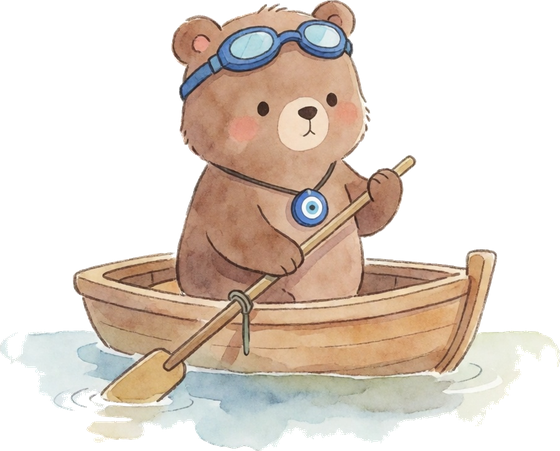
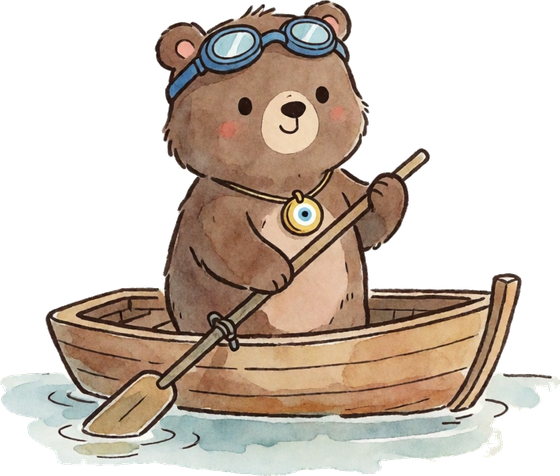
Switch the cast to ink and watercolour
All sixteen illustrations are regenerated in the ink-and-watercolour style: a
dark brown contour line around every shape with the washes filling inside it,
instead of the washes alone. Two reasons it wins at the size the page actually
uses. The characters render between 114 and 153px wide, and the contour holds
the figure together where a pure wash dissolves. And the line gives the
background strip a definite edge, so the flood fill no longer hesitates on the
pale characters — the cream rabbit, the white stork and the speckled hen come
out whole, and the ground-shadow wash the watercolour set left behind is
largely gone.

The --k multipliers are recomputed over the fourteen edge characters again,
since the ink line changes the inked area. The nav portrait is cropped to the
same 0.72 aspect as before and still lands at 35x48.

Verified at 1920: all fourteen load, no text collision, no horizontal overflow,
nav 35x48, CTA rabbit 230x229. The watercolour set stays in history at cb5a195.

Claude-Session: https://claude.ai/code/session_01MGLSLrmtckx3JqW12WLXoG

diff --git a/eski-tasarim.html b/eski-tasarim.html
@@ -11,14 +11,14 @@
     <link href="https://fonts.googleapis.com/css2?family=Nunito:wght@400;600;700;800;900&family=Baloo+2:wght@400;500;600;700;800&display=swap" rel="stylesheet">
     <link href="https://fonts.cdnfonts.com/css/scrambled-tofu" rel="stylesheet">
     <link rel="stylesheet" href="https://cdnjs.cloudflare.com/ajax/libs/font-awesome/6.5.1/css/all.min.css">
-    <link rel="stylesheet" href="eski-tasarim.css?v=83">
+    <link rel="stylesheet" href="eski-tasarim.css?v=84">
 </head>
 <body>
 
 <!-- NAV -->
 <nav>
     <a href="#" class="nav-logo">
-        <img src="tavsan-nav.png?v=2" alt="" class="nav-bear" aria-hidden="true" width="35" height="48" style="height:48px;width:auto;">
+        <img src="tavsan-nav.png?v=3" alt="" class="nav-bear" aria-hidden="true" width="35" height="48" style="height:48px;width:auto;">
         <span>Arkadaşım Kelimeler</span>
     </a>
     <ul class="nav-links">
@@ -295,8 +295,8 @@
 </section>
 
 <section id="ozellikler">
-    <img src="kahraman-ayi-kova.png?v=2" alt="" aria-hidden="true" class="kahraman kahraman-sag kahraman-y" style="--ky: 13" loading="lazy">
-    <img src="kahraman-hindi.png?v=2" data-giris="zipla" alt="" aria-hidden="true" class="kahraman kahraman-sol" loading="lazy">
+    <img src="kahraman-ayi-kova.png?v=3" alt="" aria-hidden="true" class="kahraman kahraman-sag kahraman-y" style="--ky: 13" loading="lazy">
+    <img src="kahraman-hindi.png?v=3" data-giris="zipla" alt="" aria-hidden="true" class="kahraman kahraman-sol" loading="lazy">
     <div class="container">
         <h2 class="section-title fade-in">Özellikler</h2>
         <p class="section-subtitle fade-in">Türkiye'nin ilk ve tek tam yapılandırılmış İlk Okuma-Yazma Öğretimine hoş geldin! Kelime oyunlarını seviyorsan, öğrenirken gelişmek ve ömür boyu kullanacağın bilişsel yetenekler kazanmak istiyorsan doğru yerdesin! İşte seni bekleyen harika özellikler.</p>
@@ -352,8 +352,8 @@
 
 <!-- GAMES -->
 <section id="oyunlar">
-    <img src="kahraman-sepet-dersi.png?v=2" alt="" aria-hidden="true" class="kahraman kahraman-sag kahraman-y" style="--ky: 33" loading="lazy">
-    <img src="kahraman-tavsan-zil.png?v=2" data-giris="zipla" alt="" aria-hidden="true" class="kahraman kahraman-sol kahraman-y" style="--ky: 72" loading="lazy">
+    <img src="kahraman-sepet-dersi.png?v=3" alt="" aria-hidden="true" class="kahraman kahraman-sag kahraman-y" style="--ky: 33" loading="lazy">
+    <img src="kahraman-tavsan-zil.png?v=3" data-giris="zipla" alt="" aria-hidden="true" class="kahraman kahraman-sol kahraman-y" style="--ky: 72" loading="lazy">
     <div class="container">
         <h2 class="section-title fade-in">Oyunlarımız</h2>
         <p class="section-subtitle fade-in">Platformumuzda seni bekleyen birbirinden eğlenceli kelime oyunlarını keşfet!</p>
@@ -490,8 +490,8 @@
 
 <!-- HOW TO PLAY -->
 <section id="nasil-oynanir">
-    <img src="kahraman-ayi-semsiye.png?v=2" data-giris="zipla" alt="" aria-hidden="true" class="kahraman kahraman-sag kahraman-y" style="--ky: 20" loading="lazy">
-    <img src="kahraman-kunduz-rende.png?v=2" alt="" aria-hidden="true" class="kahraman kahraman-sol" loading="lazy">
+    <img src="kahraman-ayi-semsiye.png?v=3" data-giris="zipla" alt="" aria-hidden="true" class="kahraman kahraman-sag kahraman-y" style="--ky: 20" loading="lazy">
+    <img src="kahraman-kunduz-rende.png?v=3" alt="" aria-hidden="true" class="kahraman kahraman-sol" loading="lazy">
     <div class="container">
         <h2 class="section-title fade-in">Sistem Nasıl Çalışır?</h2>
         <p class="section-subtitle fade-in">Dört kolay adımda eğlenceye katıl!</p>
@@ -637,7 +637,7 @@
 
 <!-- TESTIMONIALS -->
 <section id="yorumlar">
-    <img src="kahraman-leylek-tezgah.png?v=2" data-giris="zipla" alt="" aria-hidden="true" class="kahraman kahraman-sag kahraman-y" style="--ky: 63" loading="lazy">
+    <img src="kahraman-leylek-tezgah.png?v=3" data-giris="zipla" alt="" aria-hidden="true" class="kahraman kahraman-sag kahraman-y" style="--ky: 63" loading="lazy">
     <div class="container">
         <h2 class="section-title fade-in">Kullanıcılarımız Ne Diyor?</h2>
         <p class="section-subtitle fade-in">Milyonlarca mutlu kullanıcıdan bazıları...</p>
@@ -718,9 +718,9 @@
 
 <!-- SUNUM / PRESENTATION -->
 <section id="sunum">
-    <img src="kahraman-hindi-isaret.png?v=2" alt="" aria-hidden="true" class="kahraman kahraman-sol kahraman-y" style="--ky: 6" loading="lazy">
-    <img src="kahraman-ayi-sal.png?v=2" data-giris="zipla" alt="" aria-hidden="true" class="kahraman kahraman-sag kahraman-y" style="--ky: 40" loading="lazy">
-    <img src="kahraman-tavuk-sepet.png?v=2" data-giris="zipla" alt="" aria-hidden="true" class="kahraman kahraman-sol kahraman-y" style="--ky: 74" loading="lazy">
+    <img src="kahraman-hindi-isaret.png?v=3" alt="" aria-hidden="true" class="kahraman kahraman-sol kahraman-y" style="--ky: 6" loading="lazy">
+    <img src="kahraman-ayi-sal.png?v=3" data-giris="zipla" alt="" aria-hidden="true" class="kahraman kahraman-sag kahraman-y" style="--ky: 40" loading="lazy">
+    <img src="kahraman-tavuk-sepet.png?v=3" data-giris="zipla" alt="" aria-hidden="true" class="kahraman kahraman-sol kahraman-y" style="--ky: 74" loading="lazy">
     <div class="container">
         <h2 class="section-title fade-in">Arkadaşım Kelimeler</h2>
         <p class="section-subtitle fade-in">Yapay Zeka ve Nörobilim ile İlk Okuma Yazmayı Yeniden Tanımlıyoruz</p>
@@ -887,9 +887,9 @@
 
 <!-- ACADEMIC -->
 <section id="akademik">
-    <img src="kahraman-leylek-ayi.png?v=2" alt="" aria-hidden="true" class="kahraman kahraman-sag kahraman-y" style="--ky: 8" loading="lazy">
-    <img src="kahraman-baykus-kitap.png?v=2" data-giris="zipla" alt="" aria-hidden="true" class="kahraman kahraman-sol kahraman-y" style="--ky: 41" loading="lazy">
-    <img src="kahraman-leylek-sepet.png?v=2" data-giris="zipla" alt="" aria-hidden="true" class="kahraman kahraman-sag kahraman-y" style="--ky: 75" loading="lazy">
+    <img src="kahraman-leylek-ayi.png?v=3" alt="" aria-hidden="true" class="kahraman kahraman-sag kahraman-y" style="--ky: 8" loading="lazy">
+    <img src="kahraman-baykus-kitap.png?v=3" data-giris="zipla" alt="" aria-hidden="true" class="kahraman kahraman-sol kahraman-y" style="--ky: 41" loading="lazy">
+    <img src="kahraman-leylek-sepet.png?v=3" data-giris="zipla" alt="" aria-hidden="true" class="kahraman kahraman-sag kahraman-y" style="--ky: 75" loading="lazy">
     <div class="container">
         <h2 class="section-title fade-in">Bilimsel Temel</h2>
         <p class="section-subtitle fade-in">İlk Okuma Yazma: Bir Çocuğun Eğitim Hayatındaki En Kritik Eşik</p>
@@ -1161,7 +1161,7 @@
 
 <!-- CTA -->
 <section id="indir">
-    <img src="kahraman-kunduz-sepet.png?v=2" alt="" aria-hidden="true" class="kahraman kahraman-sol" loading="lazy">
+    <img src="kahraman-kunduz-sepet.png?v=3" alt="" aria-hidden="true" class="kahraman kahraman-sol" loading="lazy">
     <div class="container fade-in">
         <h2 class="brand-name">Hemen İndir, Eğlenceye Katıl!</h2>
         <p>Milyonlarca oyuncunun arasına katıl ve kelimelerin büyülü dünyasını keşfet. Ücretsiz!</p>
@@ -1182,7 +1182,7 @@
             </a>
         </div>
     </div>
-    <img src="tavsan-tahta.png?v=3" alt="" aria-hidden="true" class="cta-bear">
+    <img src="tavsan-tahta.png?v=4" alt="" aria-hidden="true" class="cta-bear">
 </section>
 
 <!-- FOOTER -->

diff --git a/index.html b/index.html
@@ -11,14 +11,14 @@
     <link href="https://fonts.googleapis.com/css2?family=Nunito:wght@400;600;700;800;900&family=Baloo+2:wght@400;500;600;700;800&display=swap" rel="stylesheet">
     <link href="https://fonts.cdnfonts.com/css/scrambled-tofu" rel="stylesheet">
     <link rel="stylesheet" href="https://cdnjs.cloudflare.com/ajax/libs/font-awesome/6.5.1/css/all.min.css">
-    <link rel="stylesheet" href="style.css?v=90">
+    <link rel="stylesheet" href="style.css?v=91">
 </head>
 <body>
 
 <!-- NAV -->
 <nav>
     <a href="#" class="nav-logo">
-        <img src="tavsan-nav.png?v=2" alt="" class="nav-bear" aria-hidden="true" width="35" height="48" style="height:48px;width:auto;">
+        <img src="tavsan-nav.png?v=3" alt="" class="nav-bear" aria-hidden="true" width="35" height="48" style="height:48px;width:auto;">
         <span>Arkadaşım Kelimeler</span>
     </a>
     <ul class="nav-links">
@@ -295,8 +295,8 @@
 </section>
 
 <section id="ozellikler">
-    <img src="kahraman-ayi-kova.png?v=2" alt="" aria-hidden="true" class="kahraman kahraman-sag kahraman-y" style="--ky: 13" loading="lazy">
-    <img src="kahraman-hindi.png?v=2" data-giris="zipla" alt="" aria-hidden="true" class="kahraman kahraman-sol" loading="lazy">
+    <img src="kahraman-ayi-kova.png?v=3" alt="" aria-hidden="true" class="kahraman kahraman-sag kahraman-y" style="--ky: 13" loading="lazy">
+    <img src="kahraman-hindi.png?v=3" data-giris="zipla" alt="" aria-hidden="true" class="kahraman kahraman-sol" loading="lazy">
     <div class="container">
         <h2 class="section-title fade-in">Özellikler</h2>
         <p class="section-subtitle fade-in">Türkiye'nin ilk ve tek tam yapılandırılmış İlk Okuma-Yazma Öğretimine hoş geldin! Kelime oyunlarını seviyorsan, öğrenirken gelişmek ve ömür boyu kullanacağın bilişsel yetenekler kazanmak istiyorsan doğru yerdesin! İşte seni bekleyen harika özellikler.</p>
@@ -352,8 +352,8 @@
 
 <!-- GAMES -->
 <section id="oyunlar">
-    <img src="kahraman-sepet-dersi.png?v=2" alt="" aria-hidden="true" class="kahraman kahraman-sag kahraman-y" style="--ky: 33" loading="lazy">
-    <img src="kahraman-tavsan-zil.png?v=2" data-giris="zipla" alt="" aria-hidden="true" class="kahraman kahraman-sol kahraman-y" style="--ky: 72" loading="lazy">
+    <img src="kahraman-sepet-dersi.png?v=3" alt="" aria-hidden="true" class="kahraman kahraman-sag kahraman-y" style="--ky: 33" loading="lazy">
+    <img src="kahraman-tavsan-zil.png?v=3" data-giris="zipla" alt="" aria-hidden="true" class="kahraman kahraman-sol kahraman-y" style="--ky: 72" loading="lazy">
     <div class="container">
         <h2 class="section-title fade-in">Oyunlarımız</h2>
         <p class="section-subtitle fade-in">Platformumuzda seni bekleyen birbirinden eğlenceli kelime oyunlarını keşfet!</p>
@@ -490,8 +490,8 @@
 
 <!-- HOW TO PLAY -->
 <section id="nasil-oynanir">
-    <img src="kahraman-ayi-semsiye.png?v=2" data-giris="zipla" alt="" aria-hidden="true" class="kahraman kahraman-sag kahraman-y" style="--ky: 20" loading="lazy">
-    <img src="kahraman-kunduz-rende.png?v=2" alt="" aria-hidden="true" class="kahraman kahraman-sol" loading="lazy">
+    <img src="kahraman-ayi-semsiye.png?v=3" data-giris="zipla" alt="" aria-hidden="true" class="kahraman kahraman-sag kahraman-y" style="--ky: 20" loading="lazy">
+    <img src="kahraman-kunduz-rende.png?v=3" alt="" aria-hidden="true" class="kahraman kahraman-sol" loading="lazy">
     <div class="container">
         <h2 class="section-title fade-in">Sistem Nasıl Çalışır?</h2>
         <p class="section-subtitle fade-in">Dört kolay adımda eğlenceye katıl!</p>
@@ -637,7 +637,7 @@
 
 <!-- TESTIMONIALS -->
 <section id="yorumlar">
-    <img src="kahraman-leylek-tezgah.png?v=2" data-giris="zipla" alt="" aria-hidden="true" class="kahraman kahraman-sag kahraman-y" style="--ky: 63" loading="lazy">
+    <img src="kahraman-leylek-tezgah.png?v=3" data-giris="zipla" alt="" aria-hidden="true" class="kahraman kahraman-sag kahraman-y" style="--ky: 63" loading="lazy">
     <div class="container">
         <h2 class="section-title fade-in">Kullanıcılarımız Ne Diyor?</h2>
         <p class="section-subtitle fade-in">Milyonlarca mutlu kullanıcıdan bazıları...</p>
@@ -718,9 +718,9 @@
 
 <!-- SUNUM / PRESENTATION -->
 <section id="sunum">
-    <img src="kahraman-hindi-isaret.png?v=2" alt="" aria-hidden="true" class="kahraman kahraman-sol kahraman-y" style="--ky: 6" loading="lazy">
-    <img src="kahraman-ayi-sal.png?v=2" data-giris="zipla" alt="" aria-hidden="true" class="kahraman kahraman-sag kahraman-y" style="--ky: 40" loading="lazy">
-    <img src="kahraman-tavuk-sepet.png?v=2" data-giris="zipla" alt="" aria-hidden="true" class="kahraman kahraman-sol kahraman-y" style="--ky: 74" loading="lazy">
+    <img src="kahraman-hindi-isaret.png?v=3" alt="" aria-hidden="true" class="kahraman kahraman-sol kahraman-y" style="--ky: 6" loading="lazy">
+    <img src="kahraman-ayi-sal.png?v=3" data-giris="zipla" alt="" aria-hidden="true" class="kahraman kahraman-sag kahraman-y" style="--ky: 40" loading="lazy">
+    <img src="kahraman-tavuk-sepet.png?v=3" data-giris="zipla" alt="" aria-hidden="true" class="kahraman kahraman-sol kahraman-y" style="--ky: 74" loading="lazy">
     <div class="container">
         <h2 class="section-title fade-in">Arkadaşım Kelimeler</h2>
         <p class="section-subtitle fade-in">Yapay Zeka ve Nörobilim ile İlk Okuma Yazmayı Yeniden Tanımlıyoruz</p>
@@ -887,9 +887,9 @@
 
 <!-- ACADEMIC -->
 <section id="akademik">
-    <img src="kahraman-leylek-ayi.png?v=2" alt="" aria-hidden="true" class="kahraman kahraman-sag kahraman-y" style="--ky: 8" loading="lazy">
-    <img src="kahraman-baykus-kitap.png?v=2" data-giris="zipla" alt="" aria-hidden="true" class="kahraman kahraman-sol kahraman-y" style="--ky: 41" loading="lazy">
-    <img src="kahraman-leylek-sepet.png?v=2" data-giris="zipla" alt="" aria-hidden="true" class="kahraman kahraman-sag kahraman-y" style="--ky: 75" loading="lazy">
+    <img src="kahraman-leylek-ayi.png?v=3" alt="" aria-hidden="true" class="kahraman kahraman-sag kahraman-y" style="--ky: 8" loading="lazy">
+    <img src="kahraman-baykus-kitap.png?v=3" data-giris="zipla" alt="" aria-hidden="true" class="kahraman kahraman-sol kahraman-y" style="--ky: 41" loading="lazy">
+    <img src="kahraman-leylek-sepet.png?v=3" data-giris="zipla" alt="" aria-hidden="true" class="kahraman kahraman-sag kahraman-y" style="--ky: 75" loading="lazy">
     <div class="container">
         <h2 class="section-title fade-in">Bilimsel Temel</h2>
         <p class="section-subtitle fade-in">İlk Okuma Yazma: Bir Çocuğun Eğitim Hayatındaki En Kritik Eşik</p>
@@ -1161,7 +1161,7 @@
 
 <!-- CTA -->
 <section id="indir">
-    <img src="kahraman-kunduz-sepet.png?v=2" alt="" aria-hidden="true" class="kahraman kahraman-sol" loading="lazy">
+    <img src="kahraman-kunduz-sepet.png?v=3" alt="" aria-hidden="true" class="kahraman kahraman-sol" loading="lazy">
     <div class="container fade-in">
         <h2 class="brand-name">Hemen İndir, Eğlenceye Katıl!</h2>
         <p>Milyonlarca oyuncunun arasına katıl ve kelimelerin büyülü dünyasını keşfet. Ücretsiz!</p>
@@ -1182,7 +1182,7 @@
             </a>
         </div>
     </div>
-    <img src="tavsan-tahta.png?v=3" alt="" aria-hidden="true" class="cta-bear">
+    <img src="tavsan-tahta.png?v=4" alt="" aria-hidden="true" class="cta-bear">
 </section>
 
 <!-- FOOTER -->

diff --git a/eski-tasarim.css b/eski-tasarim.css
@@ -2134,20 +2134,20 @@ section > .container,
    character carries a multiplier that evens out its *inked* area: the count
    of non-transparent pixels, scaled to the median. Measured per file, not
    eyeballed. */
-.kahraman[src*="kahraman-leylek-ayi.png"]        { --k: 1.05; }
-.kahraman[src*="kahraman-hindi-isaret"]          { --k: 1.08; }
-.kahraman[src*="kahraman-sepet-dersi"]           { --k: 1.09; }
-.kahraman[src*="kahraman-kunduz-rende"]          { --k: 1.05; }
-.kahraman[src*="kahraman-tavuk-sepet"]           { --k: 0.98; }
-.kahraman[src*="kahraman-tavsan-zil"]            { --k: 0.83; }
-.kahraman[src*="kahraman-ayi-sal"]               { --k: 1.17; }
-.kahraman[src*="kahraman-kunduz-sepet"]          { --k: 1.04; }
-.kahraman[src*="kahraman-ayi-kova"]              { --k: 0.86; }
-.kahraman[src*="kahraman-ayi-semsiye"]           { --k: 1.02; }
-.kahraman[src*="kahraman-leylek-sepet"]          { --k: 0.77; }
-.kahraman[src*="kahraman-hindi.png"]             { --k: 0.85; }
-.kahraman[src*="kahraman-leylek-tezgah"]         { --k: 0.86; }
-.kahraman[src*="kahraman-baykus-kitap"]          { --k: 0.79; }
+.kahraman[src*="kahraman-leylek-ayi.png"]        { --k: 1.16; }
+.kahraman[src*="kahraman-hindi-isaret"]          { --k: 1.15; }
+.kahraman[src*="kahraman-sepet-dersi"]           { --k: 1.12; }
+.kahraman[src*="kahraman-kunduz-rende"]          { --k: 1.01; }
+.kahraman[src*="kahraman-tavuk-sepet"]           { --k: 1.07; }
+.kahraman[src*="kahraman-tavsan-zil"]            { --k: 0.89; }
+.kahraman[src*="kahraman-ayi-sal"]               { --k: 1.16; }
+.kahraman[src*="kahraman-kunduz-sepet"]          { --k: 1.12; }
+.kahraman[src*="kahraman-ayi-kova"]              { --k: 0.99; }
+.kahraman[src*="kahraman-ayi-semsiye"]           { --k: 0.94; }
+.kahraman[src*="kahraman-leylek-sepet"]          { --k: 0.79; }
+.kahraman[src*="kahraman-hindi.png"]             { --k: 0.94; }
+.kahraman[src*="kahraman-leylek-tezgah"]         { --k: 0.96; }
+.kahraman[src*="kahraman-baykus-kitap"]          { --k: 0.85; }
 
 
 

diff --git a/style.css b/style.css
@@ -2134,20 +2134,20 @@ section > .container,
    character carries a multiplier that evens out its *inked* area: the count
    of non-transparent pixels, scaled to the median. Measured per file, not
    eyeballed. */
-.kahraman[src*="kahraman-leylek-ayi.png"]        { --k: 1.05; }
-.kahraman[src*="kahraman-hindi-isaret"]          { --k: 1.08; }
-.kahraman[src*="kahraman-sepet-dersi"]           { --k: 1.09; }
-.kahraman[src*="kahraman-kunduz-rende"]          { --k: 1.05; }
-.kahraman[src*="kahraman-tavuk-sepet"]           { --k: 0.98; }
-.kahraman[src*="kahraman-tavsan-zil"]            { --k: 0.83; }
-.kahraman[src*="kahraman-ayi-sal"]               { --k: 1.17; }
-.kahraman[src*="kahraman-kunduz-sepet"]          { --k: 1.04; }
-.kahraman[src*="kahraman-ayi-kova"]              { --k: 0.86; }
-.kahraman[src*="kahraman-ayi-semsiye"]           { --k: 1.02; }
-.kahraman[src*="kahraman-leylek-sepet"]          { --k: 0.77; }
-.kahraman[src*="kahraman-hindi.png"]             { --k: 0.85; }
-.kahraman[src*="kahraman-leylek-tezgah"]         { --k: 0.86; }
-.kahraman[src*="kahraman-baykus-kitap"]          { --k: 0.79; }
+.kahraman[src*="kahraman-leylek-ayi.png"]        { --k: 1.16; }
+.kahraman[src*="kahraman-hindi-isaret"]          { --k: 1.15; }
+.kahraman[src*="kahraman-sepet-dersi"]           { --k: 1.12; }
+.kahraman[src*="kahraman-kunduz-rende"]          { --k: 1.01; }
+.kahraman[src*="kahraman-tavuk-sepet"]           { --k: 1.07; }
+.kahraman[src*="kahraman-tavsan-zil"]            { --k: 0.89; }
+.kahraman[src*="kahraman-ayi-sal"]               { --k: 1.16; }
+.kahraman[src*="kahraman-kunduz-sepet"]          { --k: 1.12; }
+.kahraman[src*="kahraman-ayi-kova"]              { --k: 0.99; }
+.kahraman[src*="kahraman-ayi-semsiye"]           { --k: 0.94; }
+.kahraman[src*="kahraman-leylek-sepet"]          { --k: 0.79; }
+.kahraman[src*="kahraman-hindi.png"]             { --k: 0.94; }
+.kahraman[src*="kahraman-leylek-tezgah"]         { --k: 0.96; }
+.kahraman[src*="kahraman-baykus-kitap"]          { --k: 0.85; }
 
 
 
